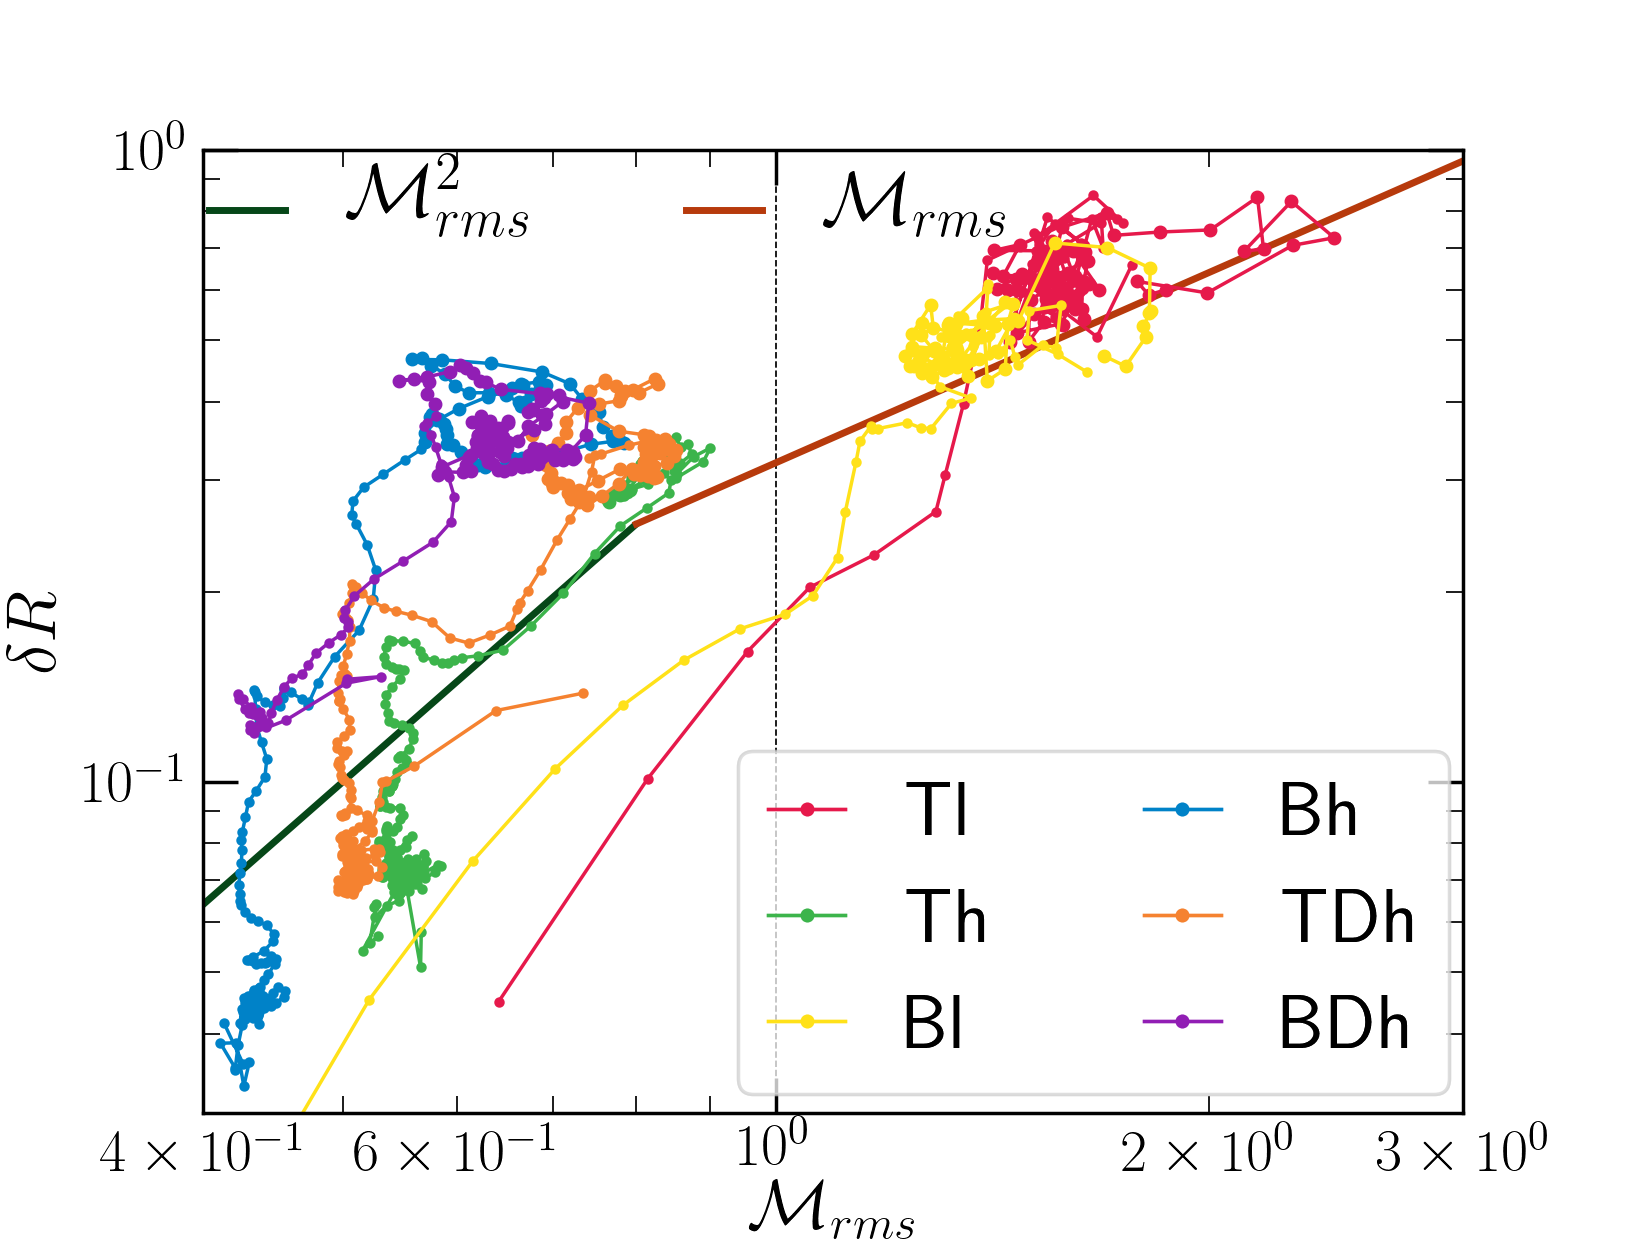
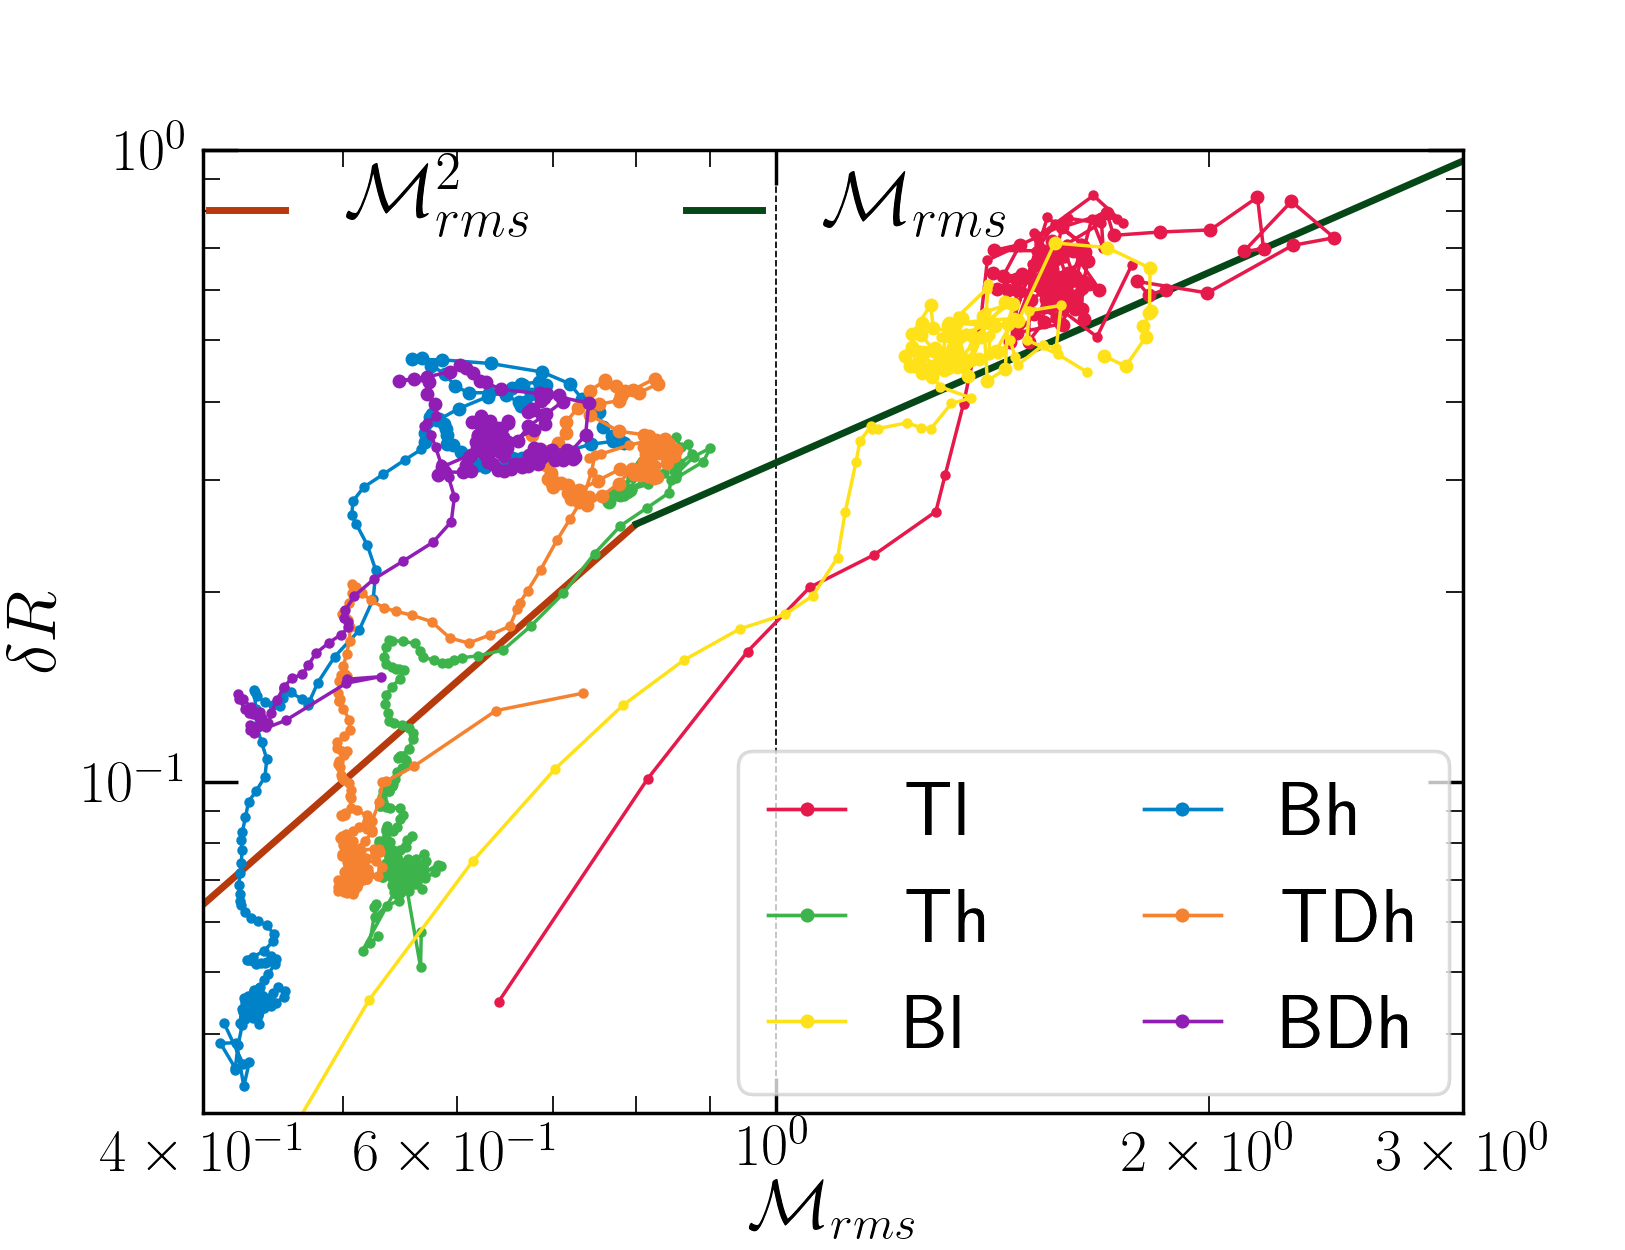
Edited plots

diff --git a/rho-mach/density_mach_all.py b/rho-mach/density_mach_all.py
@@ -44,8 +44,8 @@ ax.set_ylabel(r'$\delta R$', fontsize=20)
 x1=np.arange(0.3,0.8,0.002)
 y=np.arange(0.8,3.,0.002)
 
-fit[0],= ax.plot(x1,0.6/1.5*x1**2,label=r'$\mathcal{M}_{rms}^2$', color=colors[9], linewidth=2.)
-fit[1],= ax.plot(y,0.48/1.5*y**1,label=r'$\mathcal{M}_{rms}$', color=colors[6], linewidth=2.)
+fit[0],= ax.plot(x1,0.6/1.5*x1**2,label=r'$\mathcal{M}_{rms}^2$', color=colors[6], linewidth=2.)
+fit[1],= ax.plot(y,0.48/1.5*y**1,label=r'$\mathcal{M}_{rms}$', color=colors[9], linewidth=2.)
 
 ax.set_yscale('log')
 ax.set_xscale('log')

diff --git a/surface_brightness/sb_mach_all.py b/surface_brightness/sb_mach_all.py
@@ -44,8 +44,8 @@ ax.set_ylabel(r'$\delta R$', fontsize=20)
 x1=np.arange(0.3, 0.8, 0.002)
 y=np.arange(0.8, 4.0, 0.002)
 
-fit[0],= ax.plot(x1,0.25*x1**2,label=r'$\mathcal{M}_{rms}^2$', color=colors[9], linewidth=2.)
-fit[1],= ax.plot(y,0.2*y**1,label=r'$\mathcal{M}_{rms}$', color=colors[6], linewidth=2.)
+fit[0],= ax.plot(x1,0.25*x1**2,label=r'$\mathcal{M}_{rms}^2$', color=colors[6], linewidth=2.)
+fit[1],= ax.plot(y,0.2*y**1,label=r'$\mathcal{M}_{rms}$', color=colors[9], linewidth=2.)
 
 ax.set_yscale('log')
 ax.set_xscale('log')
